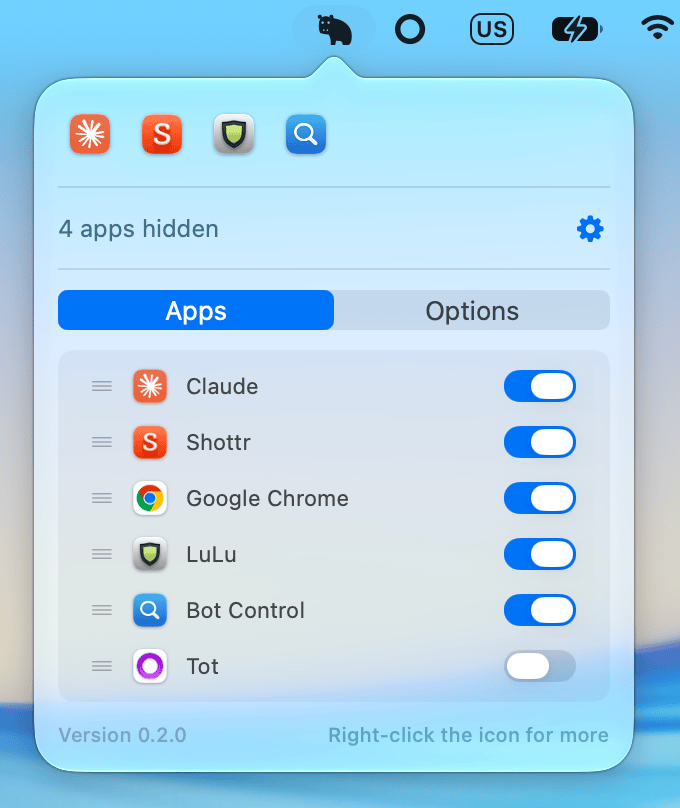
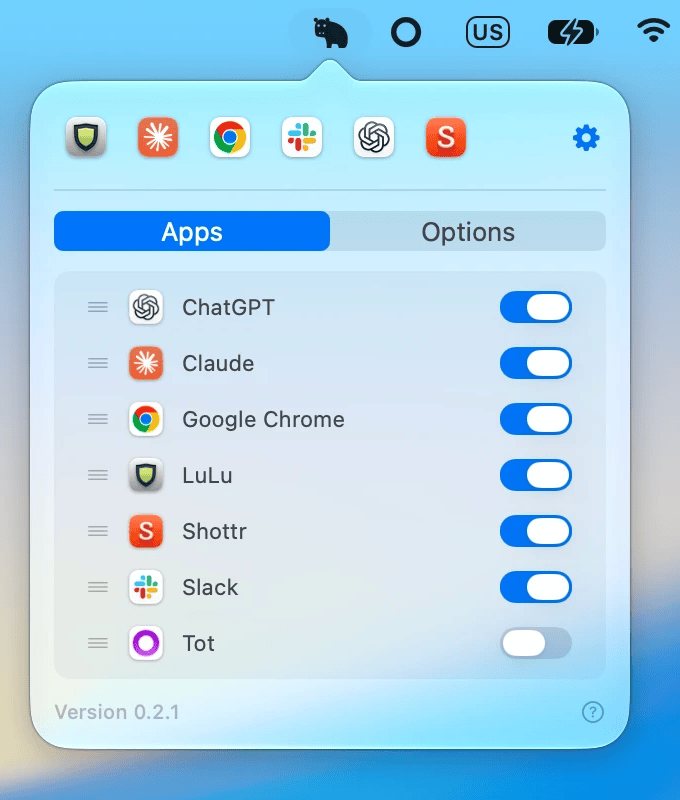
Show the shortcut and search in the README, with new screenshots

diff --git a/README.md b/README.md
@@ -15,9 +15,15 @@
 </p>
 
 <p align="center">
-  <img src="docs/screenshot.png" width="250" alt="CapyBar panel with four hidden app icons under the menu bar">
-  <img src="docs/screenshot-apps.png" width="250" alt="Settings, Apps tab: a switch for each app with a menu bar icon">
-  <img src="docs/screenshot-options.png" width="250" alt="Settings, Options tab: show apps that aren't running, hide new apps automatically, open at login">
+  <a href="https://github.com/stepn1k/CapyBar/releases/latest/download/CapyBar.zip"><b>Download</b></a> ·
+  <a href="#install">Install</a> ·
+  <a href="#using-it">Using it</a> ·
+  <a href="#faq">FAQ</a> ·
+  <a href="#where-to-find-what">Docs</a>
+</p>
+
+<p align="center">
+  <img src="docs/screenshot.png" width="440" alt="The CapyBar panel under the menu bar: six hidden app icons and a gear for settings">
 </p>
 
 Too many menu bar icons, or some stuck behind the notch? CapyBar hides the ones you pick and keeps them one click away, under the capybara.
@@ -25,6 +31,7 @@ Too many menu bar icons, or some stuck behind the notch? CapyBar hides the ones 
 - **Private.** No analytics, no accounts, no Screen Recording. Goes online only when you ask it to check for updates.
 - **One permission.** Accessibility, granted once.
 - **Safe.** Quit CapyBar, or let it crash, and every icon comes back.
+- **Stays put.** Hidden icons stay hidden after sleep, a restart or an app update. [How that's checked](docs/RELIABILITY.md).
 
 ## Install
 
@@ -43,8 +50,19 @@ git clone https://github.com/stepn1k/CapyBar.git && cd CapyBar && scripts/bundle
 ## Using it
 
 - **Click** the capybara to see hidden icons; click one to open its menu.
+- **Shortcut:** record one in **Options** to open CapyBar from any app, with no extra permission. There's none by default, so no app loses a shortcut it uses; hover over the capybara to see yours.
+- **Keyboard:** arrows choose an icon and **Return** opens its menu. Type a name or press **⌘F** to search; **Esc** closes the search, then CapyBar.
 - **Gear** opens settings: **Apps** to choose and reorder, **Options** for the rest.
-- **Right-click** for Show All Icons, Check for Updates, Uninstall and Quit.
+- **Right-click** for Show All Icons, Check for Updates, Uninstall and Quit. The **?** in settings sums all this up.
+
+<p align="center">
+  <img src="docs/screenshot-keyboard.png" width="340" alt="An icon picked with the arrow keys, ready to open with Return">
+  <img src="docs/screenshot-search.png" width="340" alt="Typing “cl” narrows the panel down to Claude">
+</p>
+<p align="center">
+  <img src="docs/screenshot-apps.png" width="340" alt="Settings, Apps tab: a switch for each app with a menu bar icon, drag to reorder">
+  <img src="docs/screenshot-options.png" width="340" alt="Settings, Options tab: show apps that aren't running, hide new apps automatically, keyboard shortcut ⇧⌘C, open at login, automatic update checks">
+</p>
 
 Automatic update checks are off by default. A check fetches one small version file from GitHub and sends nothing about you.
 
@@ -82,9 +100,18 @@ No. Accessibility is the only permission. The panel shows app icons, not capture
 
 CapyBar isn't notarized yet. Click **Done**, then **System Settings → Privacy & Security → Open Anyway**.
 
-## Contributing
+## Where to find what
 
-Issues and PRs welcome: see [CONTRIBUTING.md](CONTRIBUTING.md), [How it works](docs/HOW_IT_WORKS.md) and [SECURITY.md](SECURITY.md).
+| I want to… | Read |
+|---|---|
+| Install and use CapyBar | This page |
+| Know how hiding works, and its limits | [How it works](docs/HOW_IT_WORKS.md) |
+| Know why icons stay hidden, or check it myself | [Reliability](docs/RELIABILITY.md) |
+| Know what CapyBar can access | [Security](SECURITY.md) |
+| Ask a question or suggest an idea | [Discussions](https://github.com/stepn1k/CapyBar/discussions) |
+| Report a bug | [Issues](https://github.com/stepn1k/CapyBar/issues/new/choose) |
+| Build, test or send a PR | [Contributing](CONTRIBUTING.md) |
+| Change the code, as a person or an AI agent | [AGENTS.md](AGENTS.md): file map, rules, checklist |
 
 ## License
 

diff --git a/docs/HOW_IT_WORKS.md b/docs/HOW_IT_WORKS.md
@@ -4,7 +4,7 @@
 
 macOS 27 has a private "assessment mode" (`MBAssessmentModeAssertion` in `MenuBarClientCore`): while it is active, the menu bar shows icons only for an allowlist of apps. CapyBar holds that assertion with every running app on the list except the ones you hid.
 
-The assertion lives exactly as long as the CapyBar process, which is why quitting or crashing restores everything. If MenuBarAgent restarts, CapyBar sends it again.
+The assertion lives exactly as long as the CapyBar process, which is why quitting or crashing restores everything. If MenuBarAgent restarts, the Mac wakes, or the session comes back from another user, CapyBar sends it again, retrying while MenuBarAgent is not ready (see [Reliability](RELIABILITY.md)).
 
 MenuBarAgent matches allowlisted apps by bundle ID through LaunchServices, so CapyBar's own icon stays visible only when the running copy is the one LaunchServices resolves. That is why CapyBar refuses to hide anything unless it runs from `/Applications`. A copy opened from Downloads, which Gatekeeper runs from a temporary read-only folder (App Translocation), moves itself into `/Applications` as CapyBar.app, replacing an older build there (never a newer one), and starts again from there.
 
@@ -13,6 +13,14 @@ MenuBarAgent matches allowlisted apps by bundle ID through LaunchServices, so Ca
 To open a hidden item, CapyBar briefly adds its app back to the allowlist, waits for the icon to appear and presses it through Accessibility (`AXPress`), falling back to a real click if the app doesn't respond. When the menu closes, the icon is hidden again.
 
 The panel shows app icons, not captures of the menu bar glyphs, so CapyBar never needs Screen Recording.
+
+## Shortcut and search
+
+The shortcut, once the user records one (there is no default, since a global shortcut takes its combination away from every app), is registered with Carbon's `RegisterEventHotKey`, which delivers only that one combination: no Input Monitoring or Accessibility permission, and no other keystroke is ever seen.
+
+Opening the panel activates CapyBar so it gets typing; closing it hands the keyboard back to the previous app, unless you had already switched to another one. While the panel is open, an AppKit monitor reads CapyBar's own key-downs, `PanelKeyRoute` maps each to an action (arrows, Return, typing or ⌘F to search, ⌘V, Escape) and `PanelNavigator` holds the state. Both live in `CapyBarCore` and are tested without UI; the views only draw the state, since a popover doesn't reliably give SwiftUI focus.
+
+Search matches the names in the panel, ignoring case and accents: prefix first, then word starts, then initials ("im" for iStat Menus), then anywhere.
 
 ## Private API safety
 
